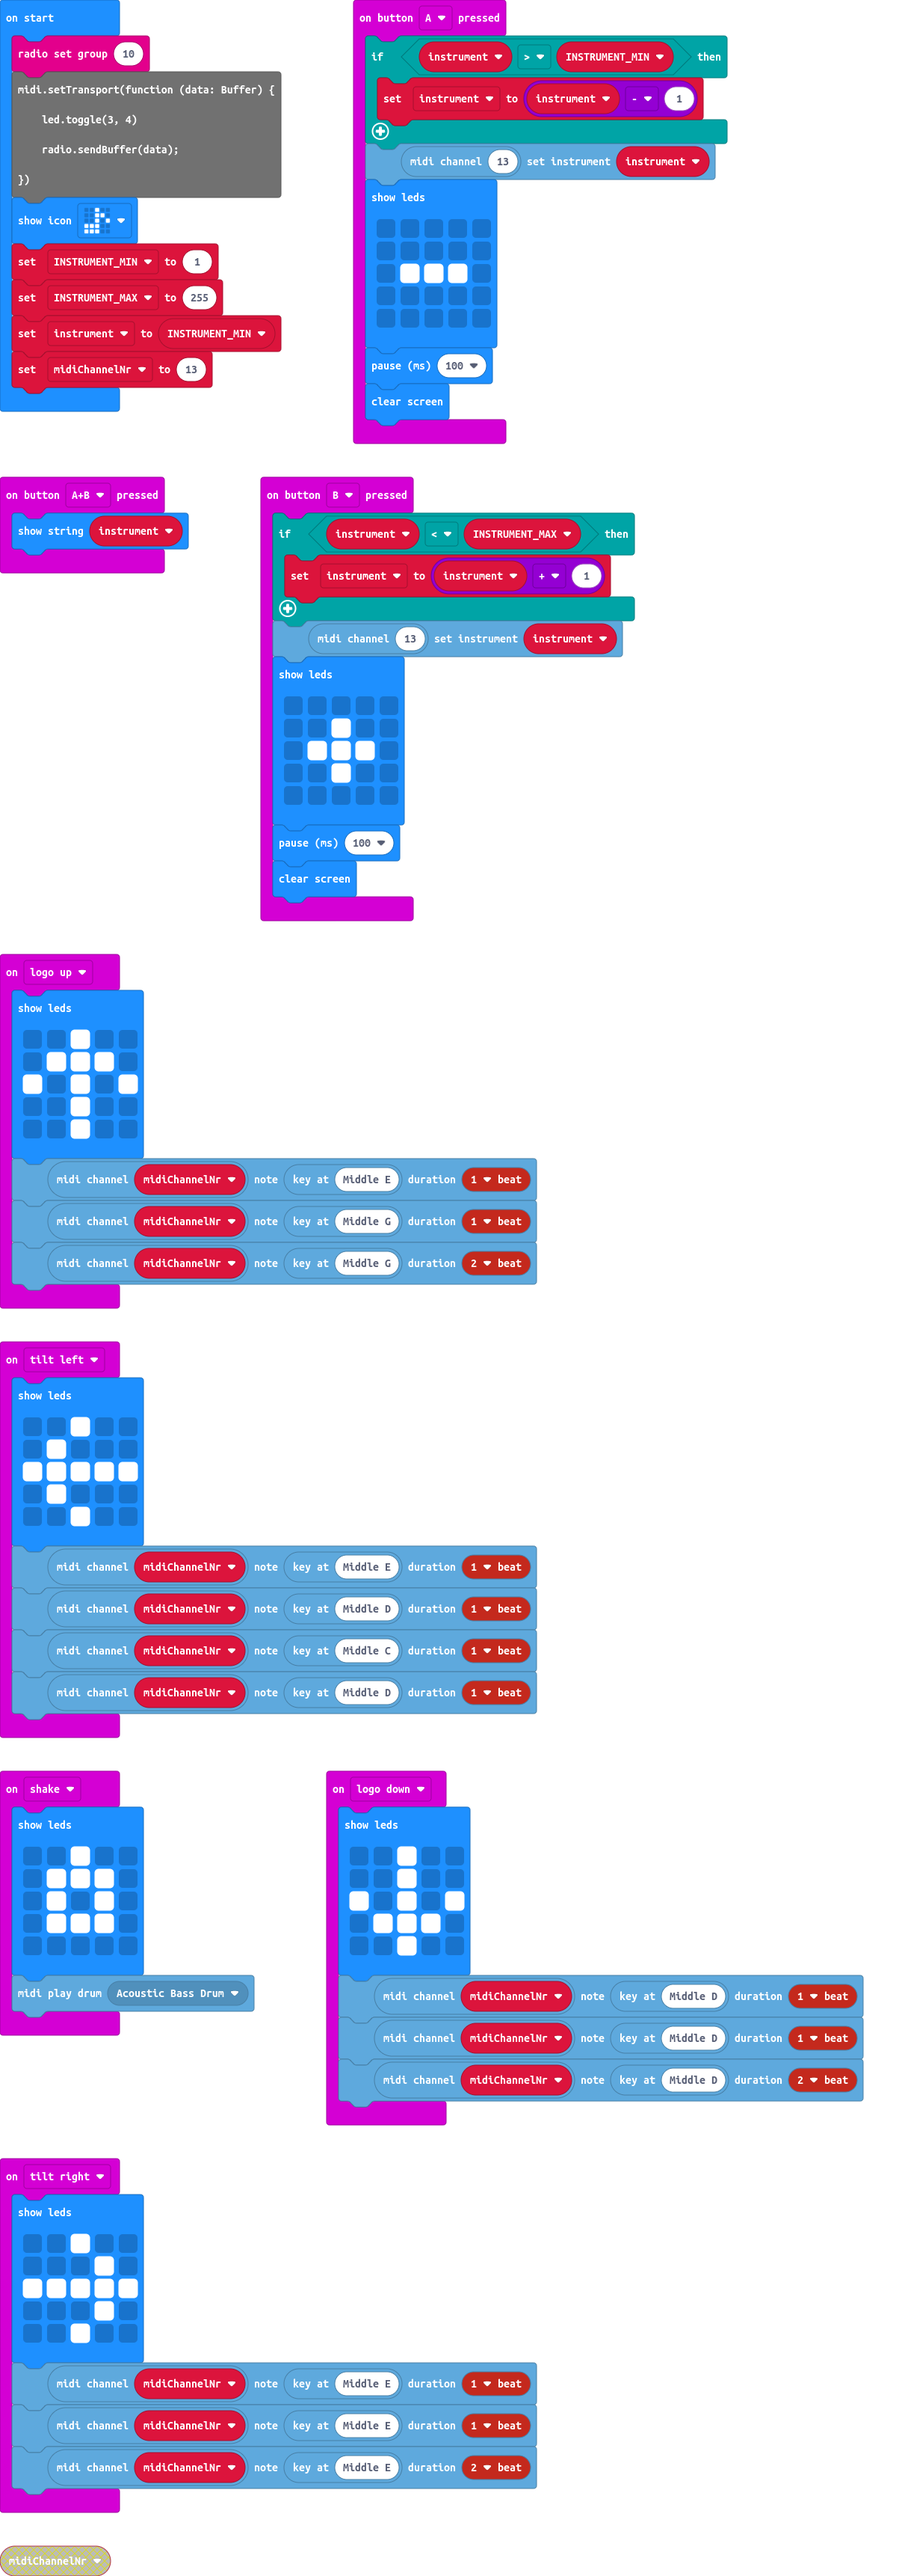
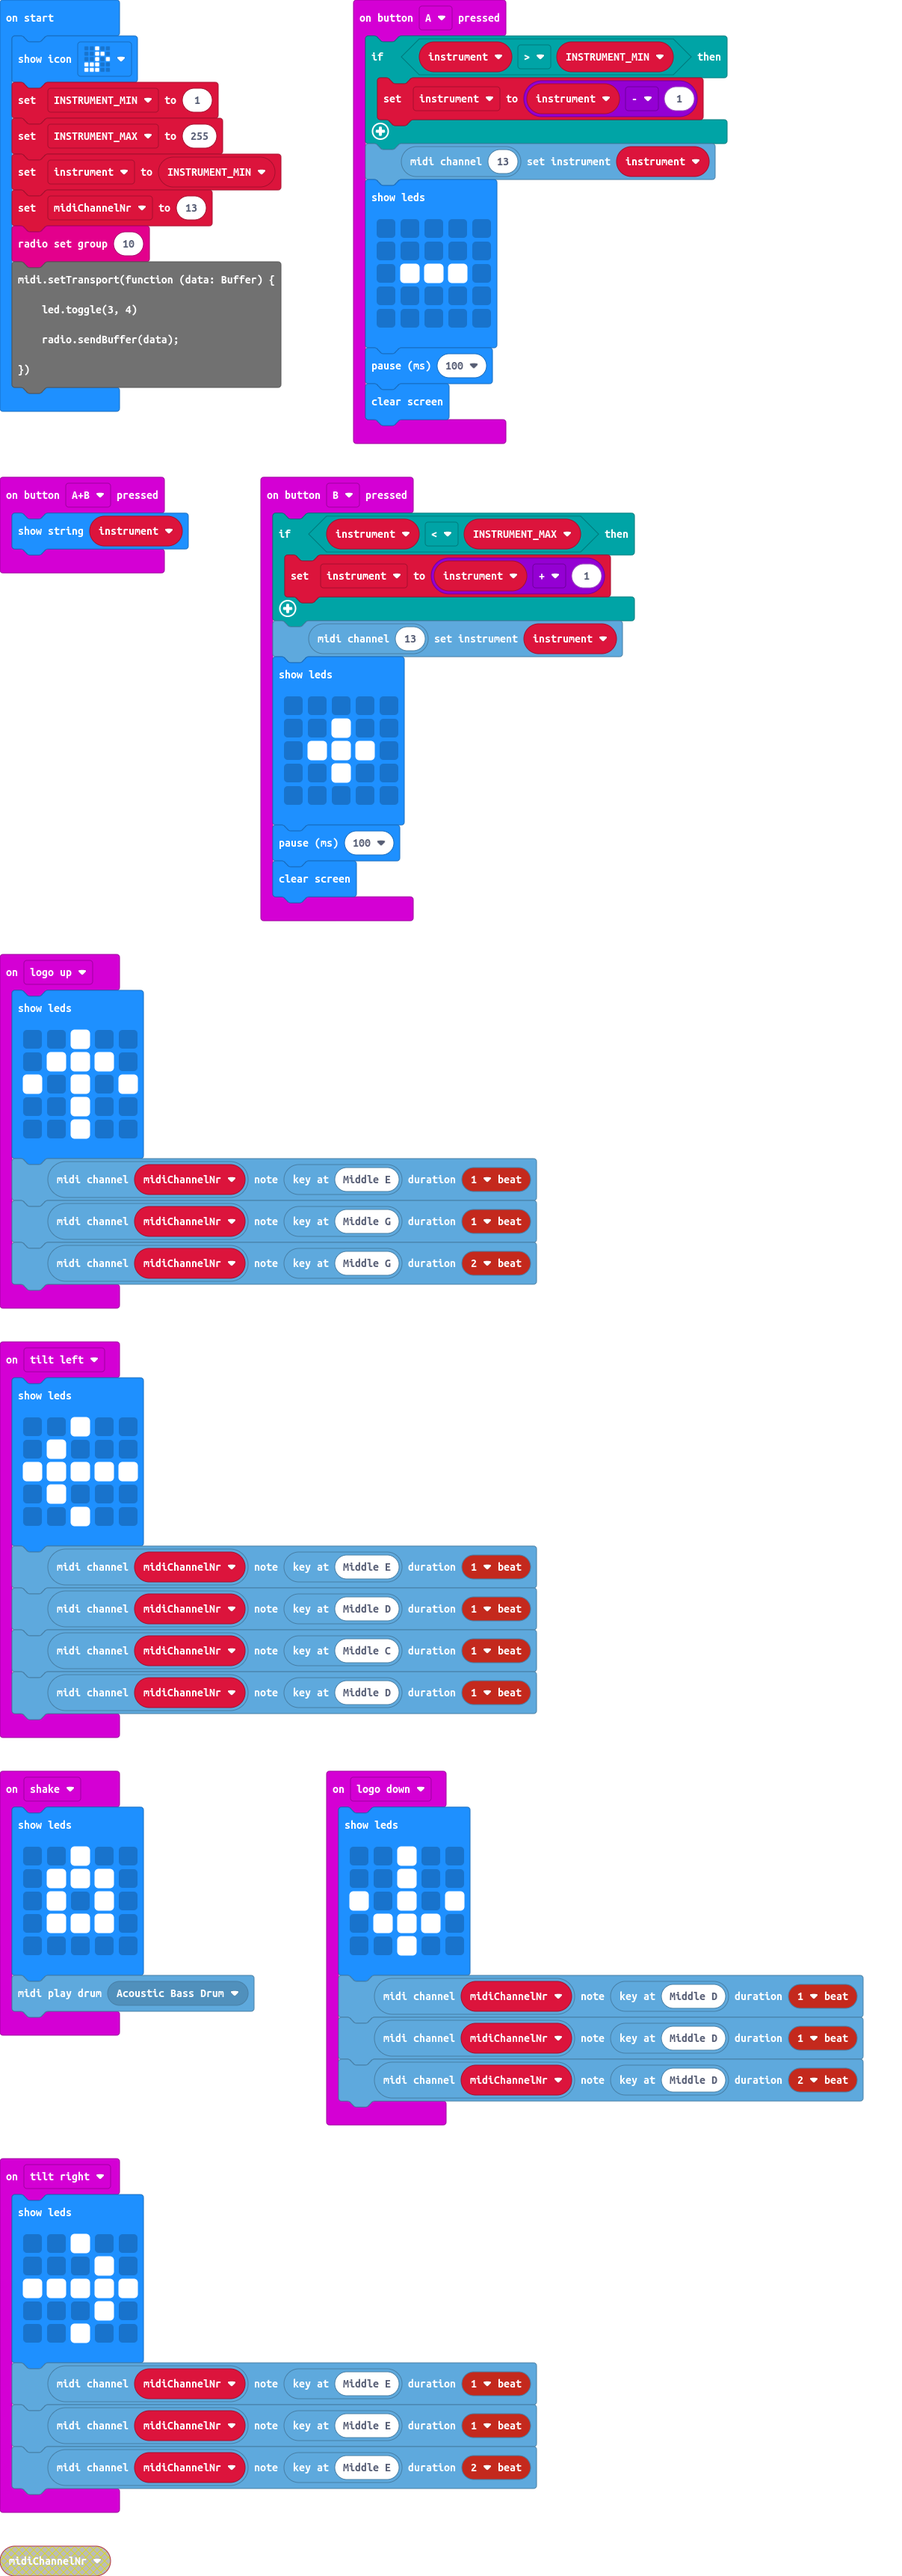
Add callbackFn to send Mini-Data via radio

Changed region(s): [[0.0, 0.0, 0.3372, 0.1553]]

diff --git a/main.ts b/main.ts
@@ -99,3 +99,8 @@ INSTRUMENT_MIN = 1
 INSTRUMENT_MAX = 255
 instrument = INSTRUMENT_MIN
 midiChannelNr = 13
+radio.setGroup(10)
+midi.setTransport(function (data: Buffer) {
+    led.toggle(3, 4)
+    radio.sendBuffer(data);
+})
